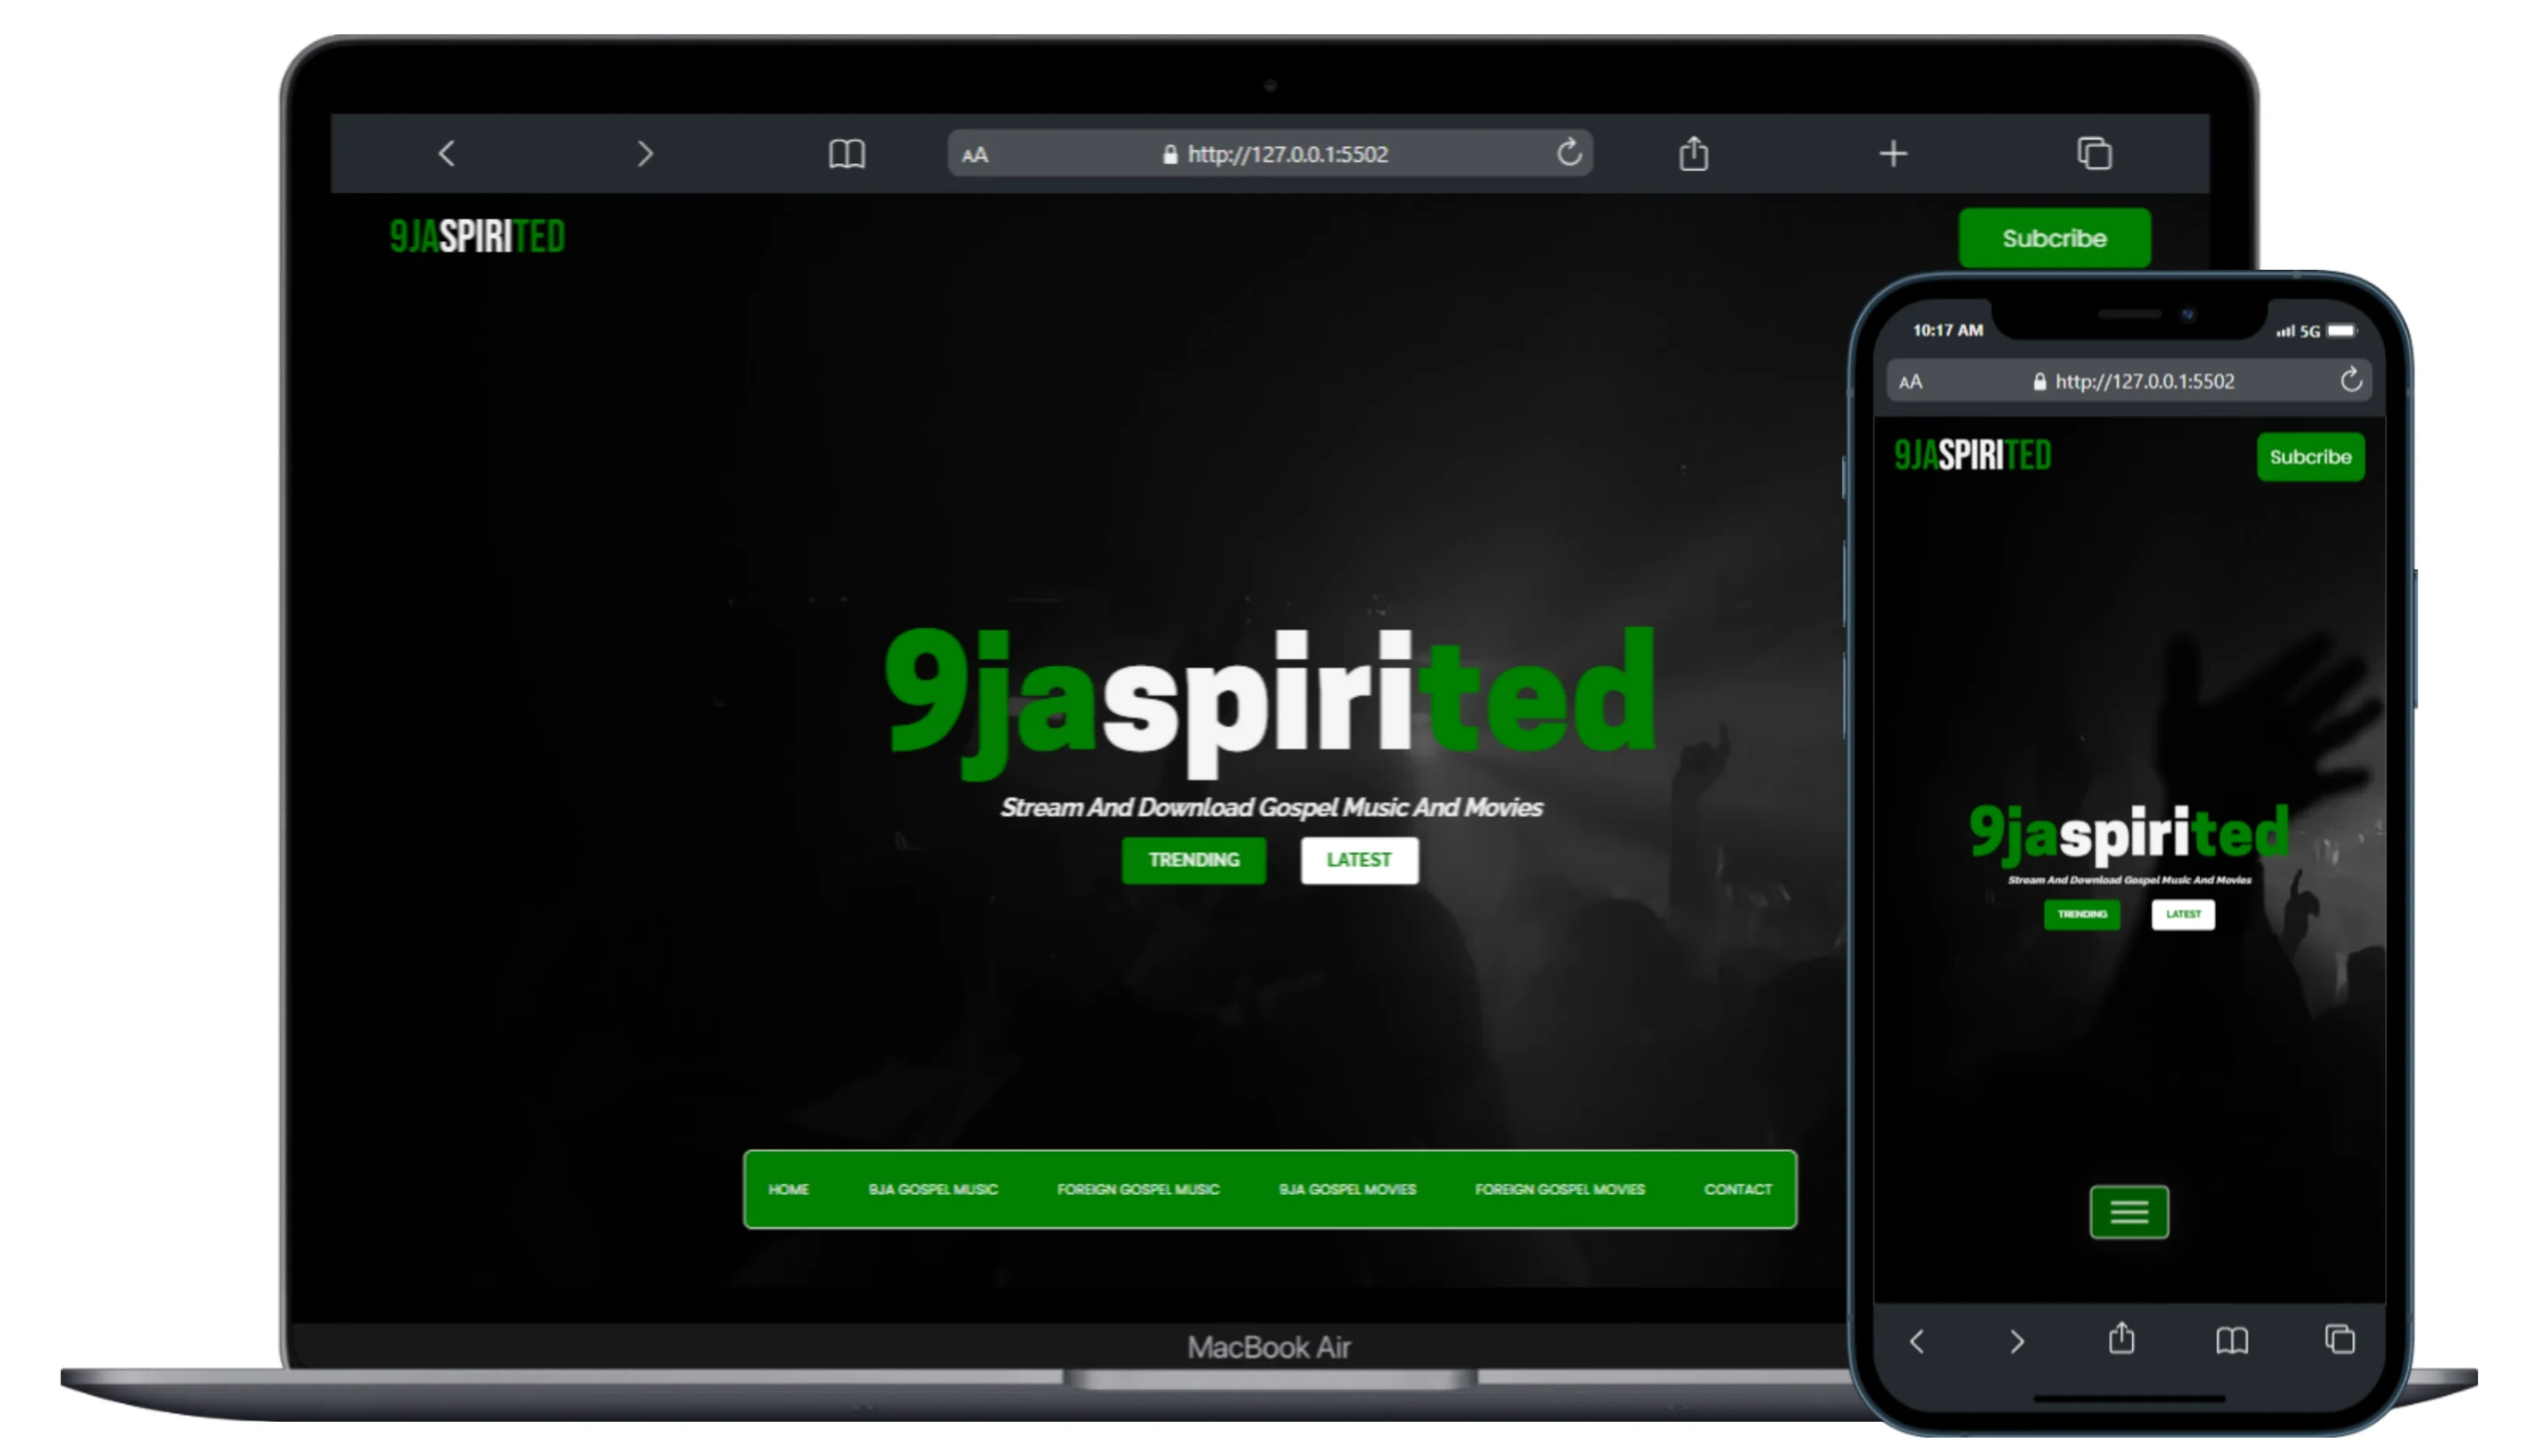
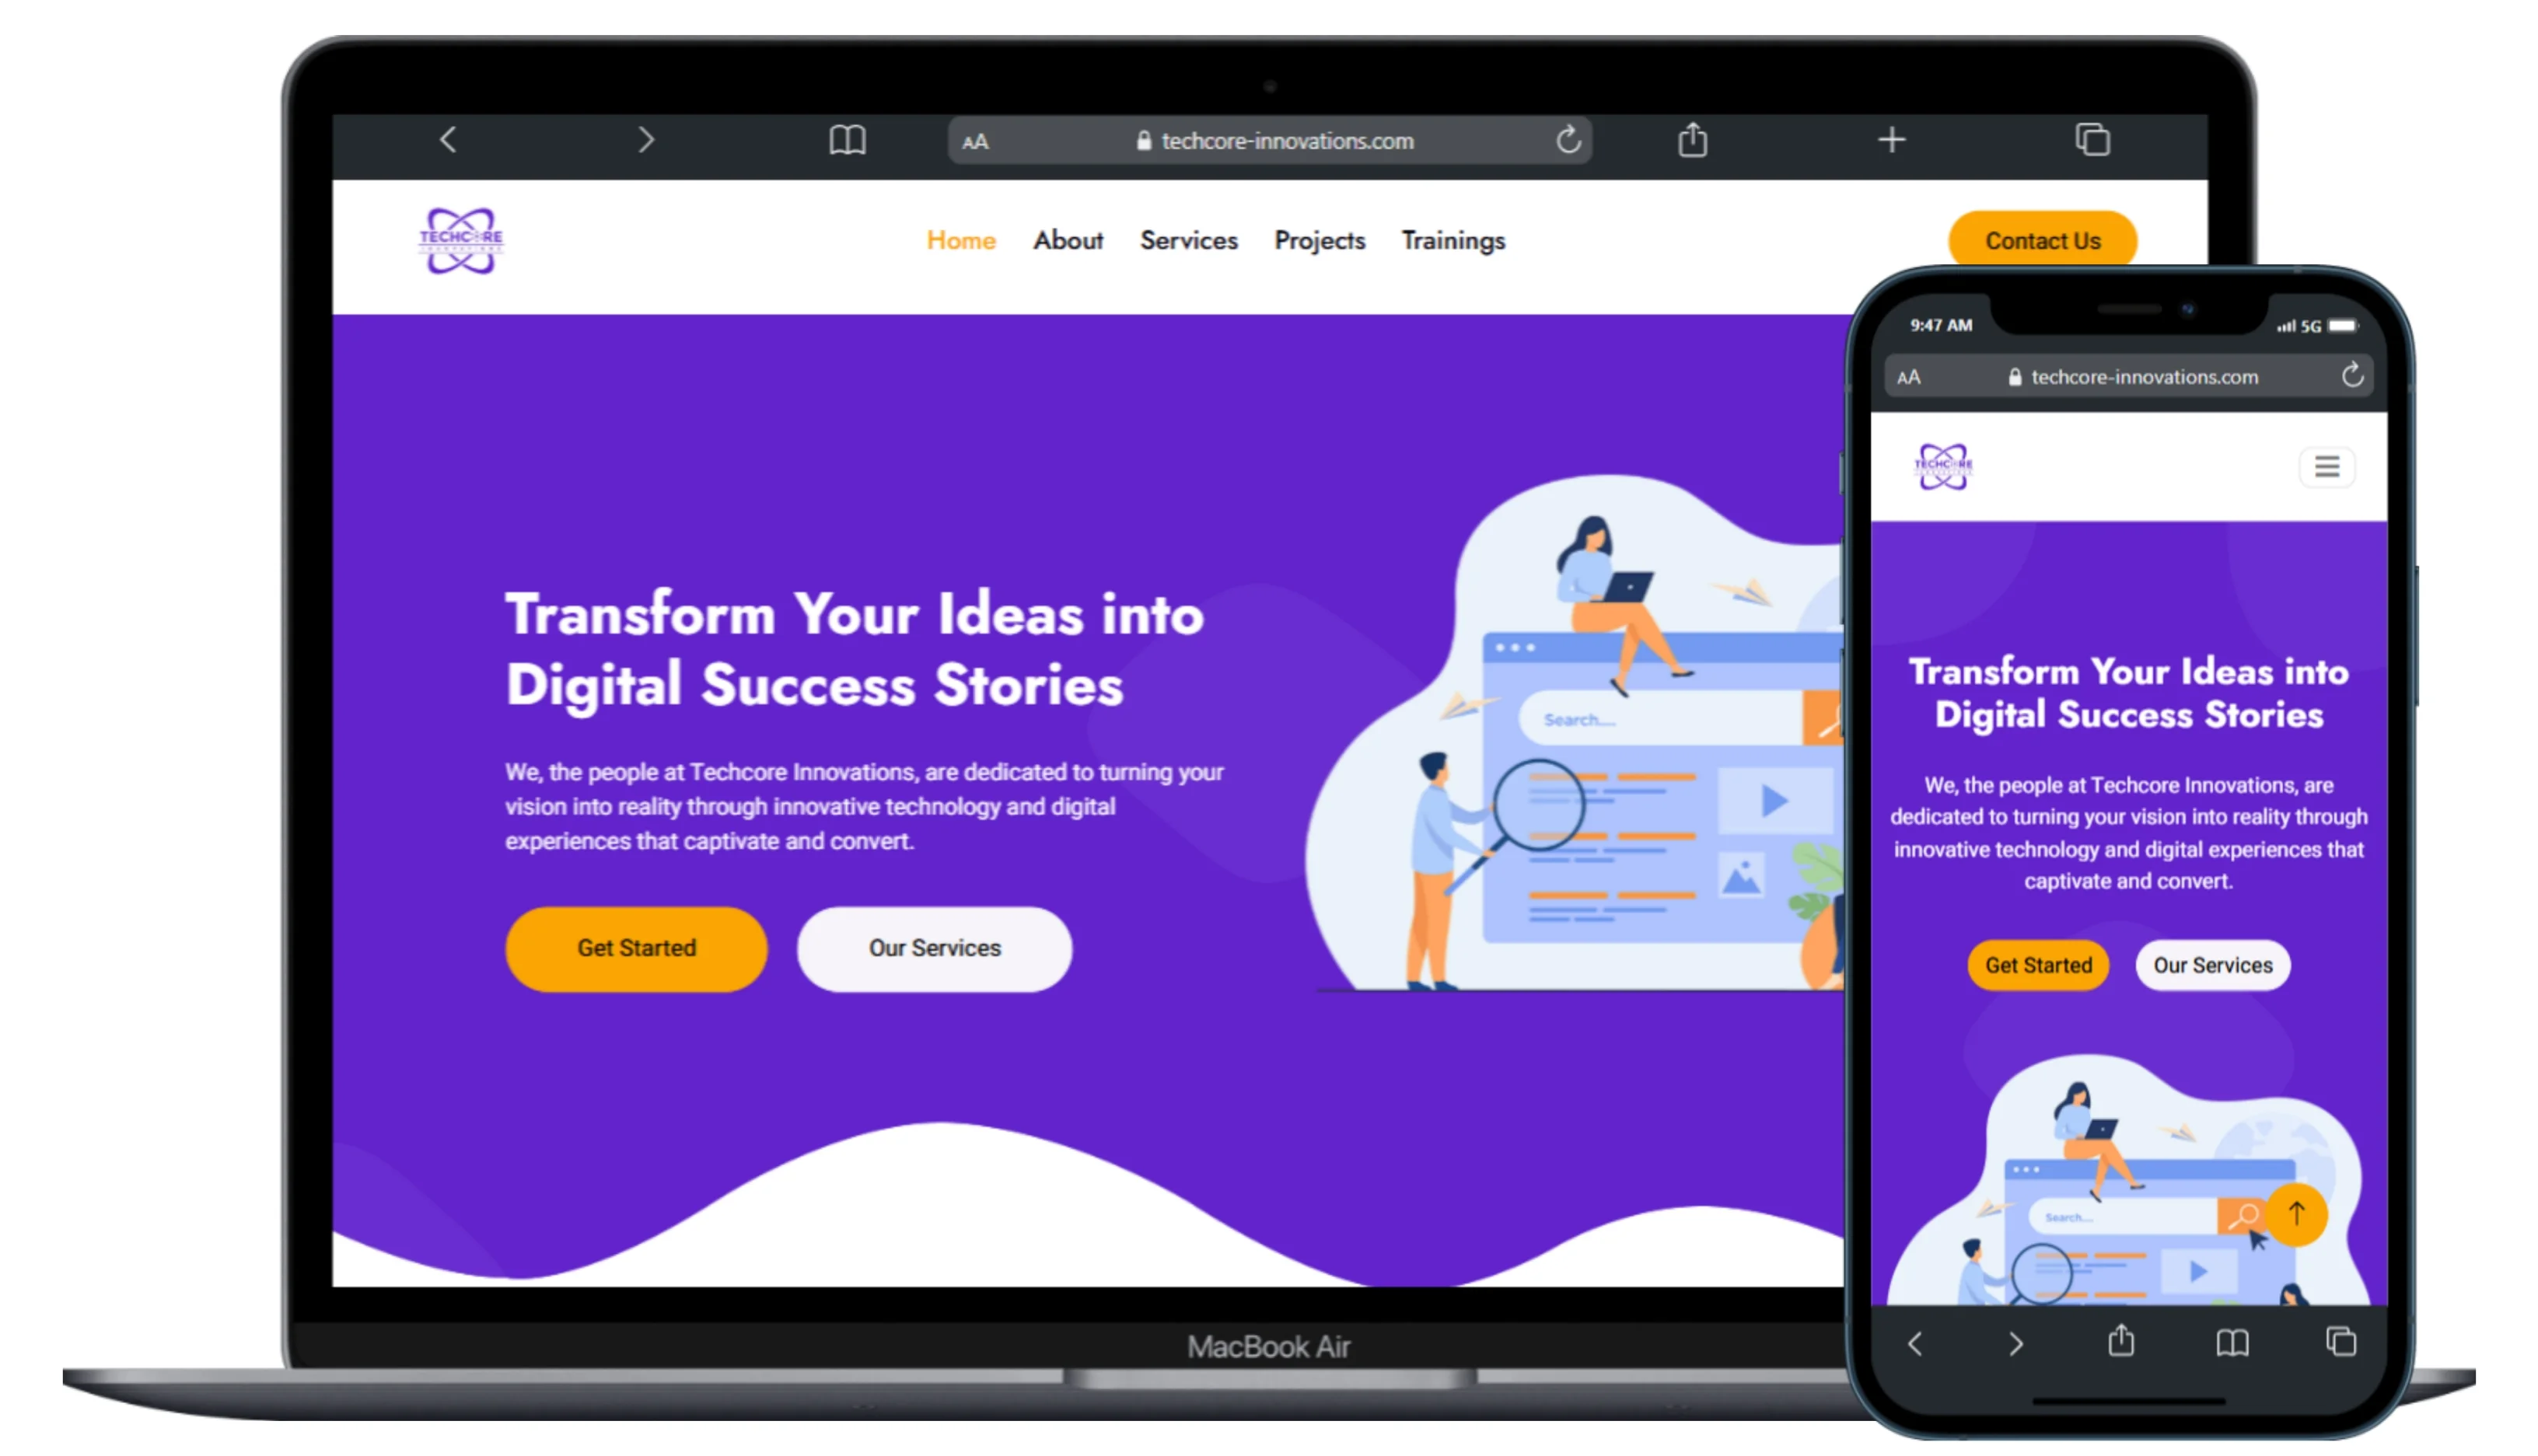
added images

diff --git a/index.html b/index.html
@@ -363,226 +363,118 @@
                     <a href="#" data-filter=".branding">
                         Branding
                     </a>
-                    <a href="#" data-filter=".advertising">
-                        Advertising
-                    </a>
                 </div>
                 <div class="portfolio-container"> 
                     <div class="col-md-6 col-lg-4 web new">
                         <div class="portfolio-item">
+                            <a href="https://ocotechconstruction.com/" target="_blank">
                             <img src="assets/imgs/web1.webp" class="img-fluid" alt="Download free bootstrap 4 admin dashboard, free boootstrap 4 templates">
+                            </a>
+                            <a href="https://ocotechconstruction.com/" target="_blank">
                             <div class="content-holder">
-                                <a class="img-popup" href="assets/imgs/web1.webp"></a>
                                 <div class="text-holder">
                                     <h6 class="title">WEBSITE</h6>
-                                    <p class="subtitle">Techcore Innovations</p>
+                                    <p class="subtitle">OCO Tech Nigeria Limited</p>
                                 </div>
-                            </div>   
+                            </div>
+                            </a>   
                         </div>             
                     </div>
                     <div class="col-md-6 col-lg-4 web new">
                         <div class="portfolio-item">
+                            <a href="https://Kaiserloweugo.com/" target="_blank">
                             <img src="assets/imgs/web2.webp" class="img-fluid" alt="Download free bootstrap 4 admin dashboard, free boootstrap 4 templates">
+                            </a>
+                            <a href="https://Kaiserloweugo.com/" target="_blank">
                             <div class="content-holder">
-                                <a class="img-popup" href="assets/imgs/web2.webp"></a>
                                 <div class="text-holder">
                                     <h6 class="title">WEBSITE</h6>
                                     <p class="subtitle">KaiserloweUGO</p>
                                 </div>
-                            </div> 
+                            </div>
+                            </a> 
                         </div>                         
                     </div>
-                    <div class="col-md-6 col-lg-4 web new">
+                    <div class="col-md-6 col-lg-4 web new">                        
                         <div class="portfolio-item">
+                            <a href="https://techcore-innovations.com/" target="_blank">
                             <img src="assets/imgs/web3.webp" class="img-fluid" alt="Download free bootstrap 4 admin dashboard, free boootstrap 4 templates">                         
-                            <div class="content-holder">
-                                <a class="img-popup" href="assets/imgs/web3.webp"></a>
-                                <div class="text-holder">
-                                    <h6 class="title">WEBSITE</h6>
-                                    <p class="subtitle">9jaspirited (Prototype)</p>
-                                </div>
-                            </div>    
-                        </div>              
+                            </a>
+                            <a href="https://techcore-innovations.com/" target="_blank">
+                                <div class="content-holder">
+                                    <div class="text-holder">
+                                        <h6 class="title">WEBSITE</h6>
+                                        <p class="subtitle">Techcore Innovations</p>
+                                    </div>
+                                </div>    
+                            </a>
+                        </div>                                  
                     </div>
-                    <div class="col-md-6 col-lg-4 branding new"> 
+                    <div class="col-md-6 col-lg-4 branding">
                         <div class="portfolio-item">
-                            <img src="assets/imgs/brand1.webp" class="img-fluid" alt="Download free bootstrap 4 admin dashboard, free boootstrap 4 templates">                               
-                            <div class="content-holder">
-                                <a class="img-popup" href="assets/imgs/brand1.webp"></a>
+                            <img src="assets/imgs/brand-1.jpg" width="290" class="img-fluid" alt="Download free bootstrap 4 admin dashboard, free boootstrap 4 templates">       
+                           <div class="content-holder">
                                 <div class="text-holder">
                                     <h6 class="title">BRANDING</h6>
-                                    <p class="subtitle">Emmanuel Prints (Logo Design)</p>
+                                    <p class="subtitle">Champion Creators Academy</p>
                                 </div>
                             </div>
                         </div>                                                       
                     </div> 
-                    <div class="col-md-6 col-lg-4 branding"> 
+                    <div class="col-md-6 col-lg-4 branding">
                         <div class="portfolio-item">
-                            <img src="assets/imgs/Linkfolio3-01.jpg" class="img-fluid" alt="Download free bootstrap 4 admin dashboard, free boootstrap 4 templates">            
-                            <div class="content-holder">
-                                <a class="img-popup" href="assets/imgs/Linkfolio3-01.jpg"></a>
+                            <img src="assets/imgs/brand-2.jpg" width="290" class="img-fluid" alt="Download free bootstrap 4 admin dashboard, free boootstrap 4 templates">       
+                           <div class="content-holder">
                                 <div class="text-holder">
                                     <h6 class="title">BRANDING</h6>
-                                    <p class="subtitle">Torilink (Logo Design)</p>
+                                    <p class="subtitle">Techcore Innovations</p>
                                 </div>
                             </div>
-                        </div>        
-                    </div> 
+                        </div>                                                       
+                    </div>
                     <div class="col-md-6 col-lg-4 branding new">
                         <div class="portfolio-item">
-                            <img src="assets/imgs/brand2.webp" class="img-fluid" alt="Download free bootstrap 4 admin dashboard, free boootstrap 4 templates">  
+                            <img src="assets/imgs/brand-3.jpg" width="290" class="img-fluid" alt="Download free bootstrap 4 admin dashboard, free boootstrap 4 templates">       
                            <div class="content-holder">
-                                <a class="img-popup" href="assets/imgs/brand2.webp"></a>
                                 <div class="text-holder">
                                     <h6 class="title">BRANDING</h6>
-                                    <p class="subtitle">King Best Communications (Logo Design)</p>
-                                </div>
-                            </div>
-                        </div>                                                     
-                    </div>
-                    <div class="col-md-6 col-lg-4 branding">
-                        <div class="portfolio-item">
-                            <img src="assets/imgs/CCA Logo-01.jpg" width="290" class="img-fluid" alt="Download free bootstrap 4 admin dashboard, free boootstrap 4 templates">       
-                           <div class="content-holder">
-                                <a class="img-popup" href="assets/imgs/CCA Logo-01.jpg"></a>
-                                <div class="text-holder">
-                                    <h6 class="title">BRANDING</h6>
-                                    <p class="subtitle">Champion Creators Academy (Logo Design)</p>
+                                    <p class="subtitle">OCO Tech Construction</p>
                                 </div>
                             </div>
                         </div>                                                       
-                    </div> 
+                    </div>
                     <div class="col-md-6 col-lg-4 branding">
                         <div class="portfolio-item">
-                            <img src="assets/imgs/TI-01.jpg" width="290" class="img-fluid" alt="Download free bootstrap 4 admin dashboard, free boootstrap 4 templates">       
-                           <div class="content-holder">
-                                <a class="img-popup" href="assets/imgs/TI-01.jpg"></a>
+                            <img src="assets/imgs/brand-5.jpg" width="290" class="img-fluid" alt="Download free bootstrap 4 admin dashboard, free boootstrap 4 templates">       
+                            <div class="content-holder">
                                 <div class="text-holder">
                                     <h6 class="title">BRANDING</h6>
-                                    <p class="subtitle">Techcore Innovations (Logo Design)</p>
+                                    <p class="subtitle">Elevance Africa</p>
                                 </div>
                             </div>
                         </div>                                                       
-                    </div> 
-                    <div class="col-md-6 col-lg-4 advertising new">
-                        <div class="portfolio-item">
-                            <img src="assets/imgs/ad3.webp" class="img-fluid" alt="Download free bootstrap 4 admin dashboard, free boootstrap 4 templates">   
-                            <div class="content-holder">
-                                <a class="img-popup" href="assets/imgs/ad3.webp"></a>
-                                <div class="text-holder">
-                                    <h6 class="title">ADVERTISING</h6>
-                                    <p class="subtitle">Mock-up/Social Media Ad</p>
-                                </div>
-                            </div>
-                        </div>                                                    
-                    </div> 
-                    <div class="col-md-6 col-lg-4 advertising">
-                        <div class="portfolio-item">
-                            <img src="assets/imgs/ad2.webp" class="img-fluid" alt="Download free bootstrap 4 admin dashboard, free boootstrap 4 templates">  
-                            <div class="content-holder">
-                                <a class="img-popup" href="assets/imgs/ad2.webp"></a>
-                                <div class="text-holder">
-                                    <h6 class="title">ADVERTISING</h6>
-                                    <p class="subtitle">Book Cover</p>
-                                </div>
-                            </div>
-                        </div>                                                     
-                    </div> 
-                    <div class="col-md-6 col-lg-4 advertising new">
-                        <div class="portfolio-item">
-                            <img src="assets/imgs/ad1.webp" class="img-fluid" alt="Download free bootstrap 4 admin dashboard, free boootstrap 4 templates">                        
-                            <div class="content-holder">
-                                <a class="img-popup" href="assets/imgs/ad1.webp"></a>
-                                <div class="text-holder">
-                                    <h6 class="title">ADVERTISING</h6>
-                                    <p class="subtitle">Social Media Ad</p>
-                                </div>
-                            </div> 
-                        </div>
-                    </div> 
-                    <div class="col-md-6 col-lg-4 advertising">
-                        <div class="portfolio-item">
-                            <img src="assets/imgs/ad4.webp" class="img-fluid" alt="Download free bootstrap 4 admin dashboard, free boootstrap 4 templates">                      
-                            <div class="content-holder">
-                                <a class="img-popup" href="assets/imgs/ad4.webp"></a>
-                                <div class="text-holder">
-                                    <h6 class="title">ADVERTISING</h6>
-                                    <p class="subtitle">Mock-up/Social Media Ad</p>
-                                </div>
-                            </div>
-                        </div>                                                      
-                    </div> 
-                    <div class="col-md-6 col-lg-4 advertising">
-                        <div class="portfolio-item">
-                            <img src="assets/imgs/ad5.webp" class="img-fluid" alt="Download free bootstrap 4 admin dashboard, free boootstrap 4 templates">          
-                            <div class="content-holder">
-                                <a class="img-popup" href="assets/imgs/ad5.webp"></a>
-                                <div class="text-holder">
-                                    <h6 class="title">ADVERTISING</h6>
-                                    <p class="subtitle">Mock-up/Social Media Ad</p>
-                                </div>
-                            </div>
-                        </div>                                                   
                     </div>
-                    <div class="col-md-6 col-lg-4 advertising">
+                    <div class="col-md-6 col-lg-4 branding new">
                         <div class="portfolio-item">
-                            <img src="assets/imgs/ad6.webp" class="img-fluid" alt="Download free bootstrap 4 admin dashboard, free boootstrap 4 templates">
-                            <div class="content-holder">
-                                <a class="img-popup" href="assets/imgs/ad6.webp"></a>
+                            <img src="assets/imgs/brand-6.jpg" width="290" class="img-fluid" alt="Download free bootstrap 4 admin dashboard, free boootstrap 4 templates">       
+                           <div class="content-holder">
                                 <div class="text-holder">
-                                    <h6 class="title">ADVERTISING</h6>
-                                    <p class="subtitle">Mock-up/Social Media Ad</p>
+                                    <h6 class="title">BRANDING</h6>
+                                    <p class="subtitle">Gabby and Co. Ventures</p>
                                 </div>
                             </div>
-                        </div>                                                     
+                        </div>                                                       
                     </div>
-                    <div class="col-md-6 col-lg-4 advertising">
+                    <div class="col-md-6 col-lg-4 branding new">
                         <div class="portfolio-item">
-                            <img src="assets/imgs/ad7.webp" class="img-fluid" alt="Download free bootstrap 4 admin dashboard, free boootstrap 4 templates">
-                            <div class="content-holder">
-                                <a class="img-popup" href="assets/imgs/ad7.webp"></a>
+                            <img src="assets/imgs/brand-4.jpg" width="290" class="img-fluid" alt="Download free bootstrap 4 admin dashboard, free boootstrap 4 templates">       
+                           <div class="content-holder">
                                 <div class="text-holder">
-                                    <h6 class="title">ADVERTISING</h6>
-                                    <p class="subtitle">Mock-up/Social Media Ad</p>
+                                    <h6 class="title">BRANDING</h6>
+                                    <p class="subtitle">ChocoWears</p>
                                 </div>
                             </div>
-                        </div>                                                     
-                    </div>
-                    <div class="col-md-6 col-lg-4 advertising new">
-                        <div class="portfolio-item">
-                            <img src="assets/imgs/ad9.webp" class="img-fluid" alt="Download free bootstrap 4 admin dashboard, free boootstrap 4 templates">
-                            <div class="content-holder">
-                                <a class="img-popup" href="assets/imgs/ad9.webp"></a>
-                                <div class="text-holder">
-                                    <h6 class="title">ADVERTISING</h6>
-                                    <p class="subtitle">Print Materials (flyer and poster)</p>
-                                </div>
-                            </div>
-                        </div>                                                     
-                    </div>
-                    <div class="col-md-6 col-lg-4 advertising">
-                        <div class="portfolio-item">
-                            <img src="assets/imgs/ad8.webp" class="img-fluid" alt="Download free bootstrap 4 admin dashboard, free boootstrap 4 templates">
-                            <div class="content-holder">
-                                <a class="img-popup" href="assets/imgs/ad8.webp"></a>
-                                <div class="text-holder">
-                                    <h6 class="title">ADVERTISING</h6>
-                                    <p class="subtitle">Social Media Ad</p>
-                                </div>
-                            </div>
-                        </div>                                                     
-                    </div>
-                    <div class="col-md-6 col-lg-4 advertising  new">
-                        <div class="portfolio-item">
-                            <img src="assets/imgs/ad10.webp" class="img-fluid" alt="Download free bootstrap 4 admin dashboard, free boootstrap 4 templates">
-                            <div class="content-holder">
-                                <a class="img-popup" href="assets/imgs/ad10.webp"></a>
-                                <div class="text-holder">
-                                    <h6 class="title">ADVERTISING</h6>
-                                    <p class="subtitle">Social Media Campaign Ad</p>
-                                </div>
-                            </div>
-                        </div>                                                     
+                        </div>                                                       
                     </div>
                 </div> 
             </div>  

diff --git a/assets/css/style.css b/assets/css/style.css
@@ -11707,3 +11707,11 @@ pre .code {
   display: block;
   margin-top: 10px;
 }
+
+a:hover {
+color: white !important;
+}
+
+.branding {
+  justify-items: center;
+}